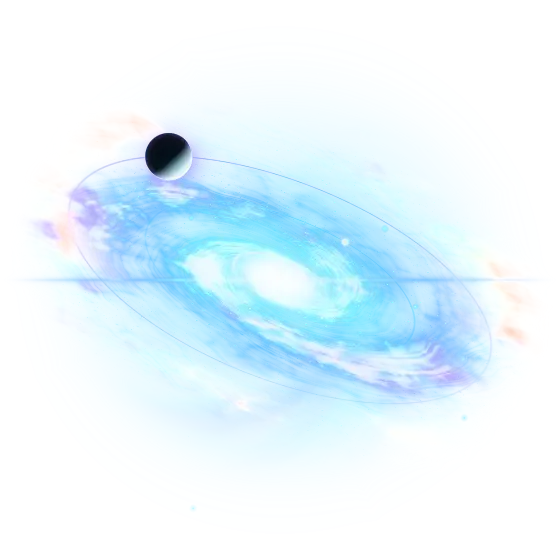
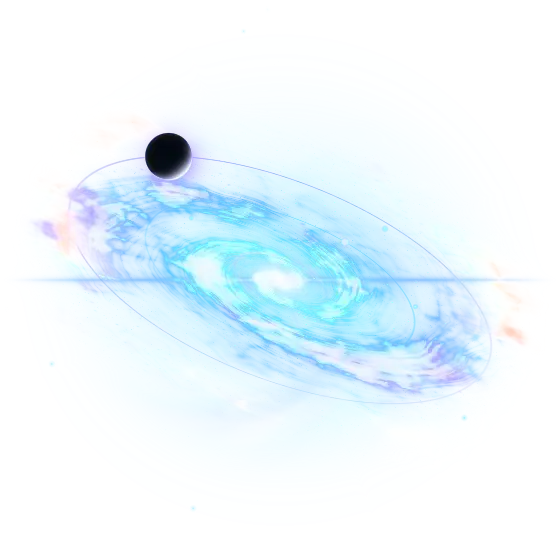
Session AM-2 (critique round 4, the star and the stage): a resolved core in dark space, a bezel that clears the words, light on the floor
Two independent critics scored the star 7 and 6.5, the stage 7 and 6: "a blown white core with no hot point, smeared
arms, a lilac haze instead of black space, a matte grey ball for a planet"; "the state ring runs through SPEAK NOW,
WORKING ON IT, ANSWERING"; "the standby bezel is a hairline"; "panels all sit on one plane".
- The shader: the surrounding nebula is thinner (space is dark), the arms have contrast between their lit crests and
  the dark between them, the core is a bulge the arms wind into with a hot nucleus and a pinpoint, four thin
  diffraction spikes, more stars streaming toward the viewer, and the planet is a dark globe with a thin bright
  crescent and a lit limb. The listening rim stays inside the canvas. Portability rules unchanged (the unit test reads
  the source); the five still pictures are drawn again.
- The bezel hugs the disc (0.9 of the star's box; it was 1.06), every state mark stays inside it, the standby bezel is
  a lit line with larger ticks, and the star's slot in the stack is 0.46 of its size (it was 0.42): the name above and
  the state's words below clear the ring in every state.
- The four pillar arcs are sized by the star (a reticle over the galaxy's heart; they were ~290 px inside a 940 px
  star).
- Depth: the haze behind the star steps back; pools of light lie on the floor under the wings and under the star; each
  panel casts its own light on the floor under it. All static (B2).
[…]

Changed region(s): [[0.1518, 0.2429, 0.8196, 0.7286]]

diff --git a/apps/web/components/nova/stage/command-centre.css b/apps/web/components/nova/stage/command-centre.css
@@ -9,7 +9,7 @@
    window's edges so the widgets' own glow reads against them. */
 .cc-nebula { position: absolute; inset: -4%; pointer-events: none;
   background:
-    radial-gradient(30% 36% at 50% 44%, color-mix(in oklab, var(--nova-a, #9273ff) 15%, transparent), transparent 72%),
+    radial-gradient(24% 30% at 50% 44%, color-mix(in oklab, var(--nova-a, #9273ff) 7%, transparent), transparent 70%),
     radial-gradient(26% 30% at 28% 26%, color-mix(in oklab, var(--nova-c, #f06dff) 8%, transparent), transparent 70%),
     radial-gradient(30% 26% at 76% 68%, color-mix(in oklab, var(--nova-c, #f06dff) 8%, transparent), transparent 72%),
     radial-gradient(22% 26% at 80% 20%, color-mix(in oklab, var(--nova-b, #63e7ff) 6%, transparent), transparent 70%),
@@ -17,7 +17,8 @@
     radial-gradient(100% 84% at 50% 46%, transparent 24%, #010208e6 78%, #010208 100%); }
 /* Round 1 of the critique: the sky read as mid-lavender, and neon cannot bloom on a mid-tone. The night is near black
    now: AK's diagonal haze steps back under the Holo look, and the colour stays close to the star. */
-.nova-frame[data-look=holo]:not([data-phone]) > .nova-sky { opacity: .5; }
+/* Round 7 (both critics: "a lilac haze instead of black space"): the haze steps back again; the star's own light is the colour. */
+.nova-frame[data-look=holo]:not([data-phone]) > .nova-sky { opacity: .3; }
 /* The star's thin blue light streak, carried across the whole stage (owner screenshot 4): a line through the star's
    centre, inside its button, so it stays at the star's height. The star draws the bright middle itself; this line takes
    over where the star's own canvas fades and runs out toward both edges. */
@@ -27,14 +28,18 @@
 /* G4: the star's bezel — a ring of fine ticks in the galaxy's own plane (the disc's tilt and roll), just outside its
    arms, so it frames the star without crossing NOVA's name above it or its words below. Static. (AK's three orbit
    rings were centred on the words' stack, so they sat off the star; they give way while the star draws.) */
-.nova-orb-button > .cc-bezel { position: absolute; inset: auto; left: 50%; top: 50%; width: calc(var(--star-size, 440px) * 1.06); height: calc(var(--star-size, 440px) * 1.06); margin: calc(var(--star-size, 440px) * -.53) 0 0 calc(var(--star-size, 440px) * -.53); z-index: 0; pointer-events: none; opacity: .85; }
+/* Round 7 (both critics: the bezel and the state marks ran through "SPEAK NOW", "WORKING ON IT", "ANSWERING" and NOVA's
+   name): the bezel hugs the disc (0.9 of the star's box; it was 1.06), every state mark stays inside it, and the star's
+   slot in the stack is taller (nova-dashboard.tsx: 0.46 of the star's size), so the words clear the ring. */
+.nova-orb-button > .cc-bezel { position: absolute; inset: auto; left: 50%; top: 50%; width: calc(var(--star-size, 440px) * .9); height: calc(var(--star-size, 440px) * .9); margin: calc(var(--star-size, 440px) * -.45) 0 0 calc(var(--star-size, 440px) * -.45); z-index: 0; pointer-events: none; opacity: .95; }
 /* Beside widgets the bezel is drawn inside the star's column (the star's haze may lie behind the wings' glass; its bezel may not be cut by them). */
 .nova-frame[data-stage=set] .nova-orb-button > .cc-bezel { width: calc(var(--star-size, 440px) * .86); height: calc(var(--star-size, 440px) * .86); margin: calc(var(--star-size, 440px) * -.43) 0 0 calc(var(--star-size, 440px) * -.43); }
 .cc-bezel > svg { display: block; width: 100%; height: 100%; overflow: visible; fill: none; }
-.cc-bezel-line { stroke: color-mix(in oklab, var(--nova-b, #63e7ff) 60%, transparent); stroke-width: .3; }
-.cc-bezel-ticks { stroke: color-mix(in oklab, var(--nova-b, #63e7ff) 75%, transparent); stroke-width: 1.8; }
-.cc-bezel-marks { stroke: color-mix(in oklab, var(--nova-b, #63e7ff) 80%, #fff); stroke-width: 3.6; }
-.cc-bezel-arc { stroke: color-mix(in oklab, var(--nova-a, #9273ff) 80%, #fff); stroke-width: .8; }
+.cc-bezel-line { stroke: color-mix(in oklab, var(--nova-b, #63e7ff) 78%, transparent); stroke-width: .55; }
+.cc-bezel-glow { stroke: color-mix(in oklab, var(--nova-b, #63e7ff) 22%, transparent); stroke-width: 2.6; } /* a soft second line: the standby bezel reads as lit, not as a hairline */
+.cc-bezel-ticks { stroke: color-mix(in oklab, var(--nova-b, #63e7ff) 80%, transparent); stroke-width: 2.4; }
+.cc-bezel-marks { stroke: color-mix(in oklab, var(--nova-b, #63e7ff) 80%, #fff); stroke-width: 5; }
+.cc-bezel-arc { stroke: color-mix(in oklab, var(--nova-a, #9273ff) 80%, #fff); stroke-width: 1.3; }
 /* N3b: the state's own mark on the bezel (static drawings; only their opacity changes, once per change of state). */
 .cc-state { opacity: 0; transition: opacity .35s ease-out; }
 .cc-bezel[data-state=listening] .cc-state-listening, .cc-bezel[data-state=thinking] .cc-state-thinking, .cc-bezel[data-state=speaking] .cc-state-speaking { opacity: 1; }
@@ -46,10 +51,21 @@
 .cc-state-speaking { stroke: #86f0d6; }
 @media (prefers-reduced-motion: reduce) { .cc-state { transition: none; } }
 :root[data-app-motion=off] .cc-state { transition: none; }
+/* Round 7 ("the centre telemetry is four hairline bars: make it pillar arcs around the star"): the four pillar rings are a
+   reticle over the galaxy's heart, sized by the star (they were sized by the small orb's box: ~290 px inside a 940 px star). */
+.nova-frame:not([data-phone]) .nova-orb-button[data-star] { --core-size: calc(var(--star-size, 440px) * .47); }
 .nova-stage[data-star] > .nova-rings { display: none; }
 /* A phone's star is small and already wears the four pillar rings: no bezel there. */
 .nova-frame[data-phone] .nova-orb-button > .cc-bezel { display: none; }
 /* A glow along the horizon, where the floor's grid ends (the line itself is the far edge of the grid plane, holo.css). */
+/* Round 7 ("panels all sit on one plane"; the owner's first screenshot: glass floating over a lit floor): pools of light on
+   the floor under the two wings and under the star, as if the panels and the star shone down on the grid. Static. */
+.cc-pool { position: absolute; bottom: 2%; height: 20%; pointer-events: none; }
+.cc-pool[data-at=left] { left: 2%; width: 34%; background: radial-gradient(50% 50% at 50% 60%, color-mix(in oklab, var(--nova-b, #63e7ff) 16%, transparent), transparent 72%); }
+.cc-pool[data-at=right] { right: 2%; width: 34%; background: radial-gradient(50% 50% at 50% 60%, color-mix(in oklab, var(--nova-c, #f06dff) 14%, transparent), transparent 72%); }
+.cc-pool[data-at=star] { left: 30%; width: 40%; bottom: 6%; height: 16%; background: radial-gradient(50% 50% at 50% 50%, color-mix(in oklab, var(--nova-a, #9273ff) 26%, transparent), transparent 70%); }
+.nova-frame[data-phone] .cc-pool, .nova-frame[data-look=classic] .cc-pool, .nova-frame[data-stage=calm] .cc-pool:not([data-at=star]) { display: none; }
+@media (forced-colors: active) { .cc-pool { display: none; } }
 .cc-horizon { position: absolute; left: 0; right: 0; bottom: 14%; height: 22%; pointer-events: none;
   background: radial-gradient(60% 50% at 50% 50%, color-mix(in oklab, var(--nova-a, #9273ff) 22%, transparent), transparent 70%); }
 .nova-frame[data-phone] :is(.cc-nebula, .cc-streak, .cc-horizon), .nova-frame[data-look=classic] .cc-streak { display: none; }

diff --git a/apps/web/lib/nova/core/star-shader.ts b/apps/web/lib/nova/core/star-shader.ts
@@ -48,7 +48,7 @@ void main(){
   vec2 np = vec2(cos(nw), sin(nw)) * rr;
   float cloud = fbm(np*3.2 + vec2(3.7, uSpin*.05)), cloud2 = fbm(np*6.5 - vec2(1.3, 8.2));
   float neb = up(.4,.84, cloud) * dn(.08,.40, rr) * (.4+.8*cloud2);
-  col += mix(mix(uA, uC, up(.3,.8,cloud2)), peach, up(.5,.9,cloud)*.55) * neb * .6;
+  col += mix(mix(uA, uC, up(.3,.8,cloud2)), peach, up(.5,.9,cloud)*.7) * neb * .34;
   // ---- the disc: tilted, two log-spiral arms with finer spurs, the inner disc turns faster ----
   vec2 q = rot(ROLL) * uv; q.y /= TILT;
   float r = length(q), a = atan(q.y, q.x + 1e-5), lr = log(r+.02);
@@ -60,7 +60,7 @@ void main(){
   vec2 g = rot(uSpin*(.35+.14/(r+.2))) * q;
   float gas = fbm(g*5.5 + vec2(0., uSpin*.2)), gas2 = fbm(g*12. - vec2(uSpin*.15, 3.1));
   float disc = dn(.05,.64, r);
-  float dens = disc * (.10 + 1.1*arms + .26*spur) * (.14 + 1.6*gas*gas) * (.5+1.05*gas2);
+  float dens = disc * (.15 + 1.1*arms + .3*spur) * (.14 + 1.6*gas*gas) * (.5+1.05*gas2);
   float lane = up(.42,.78, fbm(g*8.+vec2(4.,1.)+phase*.12));
   dens *= mix(1., .2, lane*up(.07,.3,r));
   dens *= .78 + .5*noise(g*64. + vec2(uSpin*.3, 1.7));
@@ -80,14 +80,15 @@ void main(){
     float dust = edge * up(.25,.7, fbm(g*15. + vec2(9., 2.) + phase*.2)) * up(.08,.2,r) * dn(.3,.6,r);
     dens *= 1. - .78*dust;
   }
-  vec3 inner = mix(vec3(1.,.97,1.), mix(uA, vec3(1.), .3), up(.0,.12,r));
+  vec3 inner = mix(vec3(1.,.97,1.), mix(uA, vec3(1.), .16), up(.0,.09,r));
   vec3 mid = mix(inner, uC, up(.09,.28,r));
   vec3 outer = mix(mid, mix(uA, peach, .5 + .5*up(.35,.75,gas)), up(.24,.5,r));
   vec3 gasCol = mix(outer, uB, up(.5,.85,gas2)*arms*.8);
   gasCol = mix(gasCol, uA*.55, lane*.5);
-  col += gasCol * dens * 3.3;
+  dens *= .46 + 1.15*up(.06, .7, dens);
+  col += gasCol * dens * 2.6;
   // the arms' crests run hot: a white-violet light where the gas is densest
-  col += mix(vec3(1.), uC, .35) * up(.5, 1.3, dens) * arms * disc * .5 * fine;
+  col += mix(vec3(1.), uC, .55) * up(.55, 1.5, dens) * arms * disc * .26 * fine;
   // bright knots along the arms (star-forming regions)
   vec2 kg = g*30.; vec2 ki = floor(kg); float kh = hash(ki+3.1);
   float kd = length(fract(kg)-.5 - (vec2(hash(ki),hash(ki+9.))-.5)*.5);
@@ -95,16 +96,16 @@ void main(){
   col += mix(mix(uB, uC, step(.87, kh)), vec3(1.), .5) * knot * 1.25;
   // ---- the core: a white heart, a violet bloom, a thin accretion ring ----
   float pulse = 1. + .06*sin(uT*1.1) + .5*uSpeak*uPulse + .12*uThink*sin(uT*5.) + .22*uThink + .08*uListen;
-  float core = exp(-r*r*300./(pulse*pulse)) * 2.6 + exp(-r*16.)*.75*pulse + exp(-r*r*2600.)*1.8;
+  float core = exp(-r*r*560./(pulse*pulse)) * 1.25 + exp(-r*19.)*.34*pulse + exp(-r*r*5200.)*2.6 + exp(-rr*rr*90000.)*3.;
   col += mix(vec3(1.), uA*1.1+.3, up(0.,.18,r)) * core;
   float bulge = exp(-length(uv*vec2(1.,1.3))*7.5);
-  col += (uA*.6 + uC*.34 + .1) * (bulge * .8 + exp(-rr*7.)*.05) * pulse;
+  col += (uA*.6 + uC*.34 + .1) * (bulge * .42 + exp(-rr*7.)*.03) * pulse;
   float ringR = .085*pulse;
   float acc = dn(0.,.006, abs(r-ringR)) * (.55 + .45*cos(a - uSpin*3.)) + dn(0.,.03, abs(r-ringR))*.12;
   col += mix(uB, vec3(1.), .6) * acc * .7;
   // four-point glint
-  vec2 gv = rot(.38)*uv; float glint = exp(-abs(gv.x)*60.)*exp(-abs(gv.y)*8.) + exp(-abs(gv.y)*60.)*exp(-abs(gv.x)*8.);
-  col += vec3(.9,.92,1.) * glint * .3 * pulse;
+  vec2 gv = rot(.38)*uv; float glint = exp(-abs(gv.x)*170.)*exp(-abs(gv.y)*12.) + exp(-abs(gv.y)*170.)*exp(-abs(gv.x)*12.);
+  col += vec3(.92,.94,1.) * glint * .5 * pulse;
   // ---- listening: rings fall inward · speaking: rings travel outward · thinking: a sweep of light turns through the disc ----
   float wIn = .5+.5*sin(r*64. + uT*5.5), wOut = .5+.5*sin(r*44. - uT*7.);
   float ringIn = uListen * dn(.02,.5,r) * sq(sq(wIn)*sq(wIn)) * 1.5 * up(.03,.1,r);
@@ -113,7 +114,7 @@ void main(){
   // Each state also has a look of its own that a single still frame shows: listening is washed in the second colour with a
   // lit rim at the disc's edge; thinking carries two bright arcs that turn inside the disc and a whiter core; speaking is
   // warmed by the third colour.
-  col += uB * uListen * (disc * (.07 + .12*gas) + dn(0.,.010, abs(r-.535)) * .9);
+  col += uB * uListen * (disc * (.07 + .12*gas) + dn(0.,.008, abs(r-.455)) * .7);
   col += mix(uB, vec3(1.), .6) * uThink * dn(0.,.007, abs(r-.31)) * sq(.5+.5*cos(2.*a - uT*2.4)) * 1.3;
   col += uC * uSpeak * disc * (.06 + .10*gas);
   float sw = .5+.5*cos(a + uT*2.6), sw2 = .5+.5*cos(a + uT*2.6 + 3.14159); float sweep = sq(sq(sq(sw))) + sq(sq(sq(sw2)))*.55;
@@ -133,7 +134,7 @@ void main(){
   for(int k=0;k<3;k++){
     float fk = float(k); float z = fract(uT*(.03+.035*uThink) + fk*.333);
     vec2 pp = uv / (z*1.3+.07) * (4.+fk*1.7) + fk*13.7; vec2 pi = floor(pp); float ph = hash(pi+fk*7.3);
-    float sd = length(fract(pp)-.5 - (vec2(hash(pi+1.3),hash(pi+2.7))-.5)*.7); float tw = (dn(0., .05, sd) + dn(0., .014, sd)*1.5) * step(.9, ph);
+    float sd = length(fract(pp)-.5 - (vec2(hash(pi+1.3),hash(pi+2.7))-.5)*.7); float tw = (dn(0., .045, sd) + dn(0., .014, sd)*1.8) * step(.84, ph);
     col += mix(vec3(.8,.88,1.), uA+.4, ph*.5) * tw * up(0.,.3,z) * dn(.75,1.,z) * up(.09,.24,rr);
   }
   // ---- the thin horizontal light streak through the core ----
@@ -164,7 +165,8 @@ void main(){
     float lit = max(0., dot(nrm, L));
     float rim = sq(1.-nz)*sqrt(max(1.-nz, 0.)), facing = max(0., dot(n, -po/max(length(po), 1e-4)));
     // A body in every frame: a dark globe with faint bands, a thin lit limb all the way round, brightest toward the core.
-    vec3 pc = vec3(.012,.016,.045) + uA * .05 * nz * (.6 + .4*noise(vec2(n.y*9., 2.))) + mix(uA, vec3(1.), .7) * lit*sqrt(max(lit, 0.)) * 3.2 + mix(uB, vec3(1.), .35) * rim * (.7 + 3.*facing);
+    float cres = sq(sq(lit)) * lit;
+    vec3 pc = vec3(.006,.008,.026) + uA * .035 * nz * (.6 + .4*noise(vec2(n.y*9., 2.))) + mix(uC, vec3(1.), .78) * (cres * 2.6 + sq(lit)*.35) + mix(uB, vec3(1.), .45) * rim * (.5 + 4.2*facing);
     col = mix(col, pc, solid);
   }
   col += uB * exp(-max(pd-pr, 0.)*70.) * (.16 + .3*max(0., dot(d, -po)/max(pd*length(po), 1e-4))) * (1.-behind) * (1.-body);

diff --git a/apps/web/components/nova/nova-stage.tsx b/apps/web/components/nova/nova-stage.tsx
@@ -71,20 +71,20 @@ export function NovaStage({persona, orb, greeting, typingFrom, counts, showcase,
       <circle className="nova-ring-moon" cx="300" cy="0" r="5"/><circle className="nova-ring-moon nova-ring-moon-2" cx="-150" cy="-260" r="3.5"/>
     </svg>
     <div className="nova-stage-above"><p className="nova-name" aria-hidden="true">{letters}</p></div>
-    <button type="button" className="nova-orb-button" onClick={onTalk} aria-expanded={talkOpen} aria-controls={talkOpen ? "nova-talk" : undefined} aria-describedby="nova-orb-state" data-star={starOn && persona.avatar !== 'zigi' ? '' : undefined} style={starOn && starBox && persona.avatar !== 'zigi' ? {'--star-box': `${starBox}px`, '--star-size': `${starSize ?? Math.round(starBox / 0.42)}px`} as CSSProperties : undefined}>
+    <button type="button" className="nova-orb-button" onClick={onTalk} aria-expanded={talkOpen} aria-controls={talkOpen ? "nova-talk" : undefined} aria-describedby="nova-orb-state" data-star={starOn && persona.avatar !== 'zigi' ? '' : undefined} style={starOn && starBox && persona.avatar !== 'zigi' ? {'--star-box': `${starBox}px`, '--star-size': `${starSize ?? Math.round(starBox / 0.46)}px`} as CSSProperties : undefined}>
       {/* Session AM-2 (G1): the star's light streak, carried across the stage (decoration; components/nova/stage/command-centre.css). */}
       {starOn && persona.avatar !== 'zigi' && <span className="cc-streak" aria-hidden="true"/>}
       {/* Session AM-2 (G4): the star's bezel — a ring of fine ticks in the galaxy's own plane, just outside its arms (static
           decoration; components/nova/stage/command-centre.css). It replaces AK's three orbit rings while the star draws. */}
       {starOn && persona.avatar !== 'zigi' && <span className="cc-bezel" aria-hidden="true" data-state={orb}><svg viewBox="-100 -100 200 200" focusable="false"><g transform="rotate(21.8)">
-        <ellipse rx="97" ry="42.7" className="cc-bezel-line"/><ellipse rx="93" ry="40.9" className="cc-bezel-ticks" pathLength="360" strokeDasharray="0.2 2.8"/><ellipse rx="92.2" ry="40.6" className="cc-bezel-marks" pathLength="360" strokeDasharray="0.45 29.55"/>
+        <ellipse rx="97" ry="42.7" className="cc-bezel-glow"/><ellipse rx="97" ry="42.7" className="cc-bezel-line"/><ellipse rx="93" ry="40.9" className="cc-bezel-ticks" pathLength="360" strokeDasharray="0.2 2.8"/><ellipse rx="92.2" ry="40.6" className="cc-bezel-marks" pathLength="360" strokeDasharray="0.45 29.55"/>
         <ellipse rx="99.5" ry="43.8" className="cc-bezel-arc" pathLength="360" strokeDasharray="36 144"/>
         {/* N3b (the third critique: "the four states read alike in a still"): each state wears its own mark on the bezel,
             all drawn always and shown by opacity alone — listening a lit ring with ticks pointing in, thinking a ring
-            in segments, speaking ticks pointing out with two rings going outward. The words under the star say the same. */}
+            in segments, speaking a ticked rim with two rings inside it. Every mark stays inside the bezel (round 7: they ran through the words). The words under the star say the same. */}
         <g className="cc-state cc-state-listening"><ellipse rx="100.5" ry="44.2" className="cc-state-ring"/><ellipse rx="96.5" ry="42.5" className="cc-state-ticks" pathLength="360" strokeDasharray="0.5 5.5"/><ellipse rx="86" ry="37.8" className="cc-state-faint"/></g>
-        <g className="cc-state cc-state-thinking"><ellipse rx="100.5" ry="44.2" className="cc-state-ring" pathLength="360" strokeDasharray="21 9"/><ellipse rx="105" ry="46.2" className="cc-state-faint" pathLength="360" strokeDasharray="5 25"/></g>
-        <g className="cc-state cc-state-speaking"><ellipse rx="103.5" ry="45.5" className="cc-state-ticks" pathLength="360" strokeDasharray="0.5 3.5"/><ellipse rx="109" ry="48" className="cc-state-ring"/><ellipse rx="115" ry="50.6" className="cc-state-faint"/></g>
+        <g className="cc-state cc-state-thinking"><ellipse rx="100.5" ry="44.2" className="cc-state-ring" pathLength="360" strokeDasharray="21 9"/><ellipse rx="95" ry="41.8" className="cc-state-faint" pathLength="360" strokeDasharray="5 25"/></g>
+        <g className="cc-state cc-state-speaking"><ellipse rx="100" ry="44" className="cc-state-ticks" pathLength="360" strokeDasharray="0.5 3.5"/><ellipse rx="94.5" ry="41.6" className="cc-state-ring"/><ellipse rx="89" ry="39.2" className="cc-state-faint"/></g>
       </g></svg></span>}
       {persona.avatar !== 'zigi' && star}
       {persona.avatar === 'zigi' ? <PersonaMark avatar="zigi" size={170} state={orb}/> : <NovaOrb state={orb} size={220}/>}

diff --git a/apps/web/components/nova/nova-dashboard.tsx b/apps/web/components/nova/nova-dashboard.tsx
@@ -420,13 +420,13 @@ export default function NovaDashboard() {
   const core = holo ? {rings: <LoadBoundary quiet><Suspense fallback={null}><HoloCore part="rings"/></Suspense></LoadBoundary>, readout: <LoadBoundary quiet><Suspense fallback={null}><HoloCore part="readout"/></Suspense></LoadBoundary>} : undefined;
   // The star's box: as large as the window's height allows (its disc is about half as tall as it is wide).
   // On the calm stage it is the hero; beside widgets it steps back so the centre column keeps room for NOVA's words.
-  // Design review AM-D5, AM-D6, AM-D14: the star gives way first. Its disc (0.42 of its box) gets what the stage's height
+  // Design review AM-D5, AM-D6, AM-D14: the star gives way first. Its disc (0.46 of its box since round 7; it was 0.42) gets what the stage's height
   // leaves after the slot kept for NOVA's words under it (nova.css `--ns-slot`, by the same three steps) and the name
   // above it, down to 240 px; a tablet's stage with widgets keeps a 300 px star above its two columns.
   // The star's box in the stack is the calm stage's at every moment (the nebula inside it steps back beside widgets), so
   // NOVA's name and state do not move when the first widget is made.
   // Beside widgets the nebula keeps to the star's own column (about a third of the stage), so it never lies over a widget.
-  const hudRoom = (hudSize?.height ?? height - 300) - 26, hudWide = hudSize?.width ?? width - 300, starSlot = hudRoom <= 520 ? 204 : hudRoom >= 640 ? 252 : 228, starRoom = (hudRoom - starSlot - 124) / 0.42;
+  const hudRoom = (hudSize?.height ?? height - 300) - 26, hudWide = hudSize?.width ?? width - 300, starSlot = hudRoom <= 520 ? 204 : hudRoom >= 640 ? 252 : 228, starRoom = (hudRoom - starSlot - 124) / 0.46;
   // Session AM-2 (ADR-038 "AM-2", G3): the star is larger — the hero of a calm stage (up to 940 px on a wide window) and
   // still large beside widgets, where its light now lies behind the widgets' glass instead of stopping at its column.
   const starCalm = width >= 2200 ? 940 : width >= 1700 ? 760 : width >= 1280 ? 600 : 460, starCapWide = hudWide >= 1100 ? starCalm : hudWide >= 960 ? 360 : 300;
@@ -437,7 +437,7 @@ export default function NovaDashboard() {
   // large as on the calm stage wherever that column holds it.
   const starColumn = hudWide >= 1700 ? (hudWide - 56) * 1.5 / 3.5 : hudWide > 900 ? (hudWide - 40) * 1.1 / 3.1 : hudWide;
   const starCap = stage.shown.length ? Math.min(starCapWide, Math.max(300, Math.round(starColumn * 1.15))) : starCalm;
-  const starSize = phone ? 300 : Math.round(Math.max(240, Math.min(starCap, starRoom))), starBox = phone ? 126 : Math.round(Math.max(240, Math.min(hudWide > 900 ? starCalm : starCap, starRoom)) * 0.42);
+  const starSize = phone ? 300 : Math.round(Math.max(240, Math.min(starCap, starRoom))), starBox = phone ? 126 : Math.round(Math.max(240, Math.min(hudWide > 900 ? starCalm : starCap, starRoom)) * 0.46); // round 7: 0.46 of the star (it was 0.42), so the words under it clear the bezel
   const star = <LoadBoundary quiet><Suspense fallback={null}><StarSystem state={shownOrb} hud={hudMove.state} accent={accent} phone={phone} size={starSize} beam={beam} onReport={onStarReport}/></Suspense></LoadBoundary>;
   const starWhy = starReport && (starReport.why || starReport.always) ? {kind: starReport.why?.kind ?? 'running', text: starReport.why?.text ?? 'The star is running', details: starReport.details, open: starReport.always} : null;
   // Design review AM-D18: from the answer, one keypress to the widget it made (the newest one that is still on the stage).

diff --git a/apps/web/components/nova/holo/holo.css b/apps/web/components/nova/holo/holo.css
@@ -43,7 +43,7 @@
   --holo-grid: linear-gradient(color-mix(in oklab, var(--neon, #9273ff) 6.5%, transparent) 1px, transparent 1px) 0 0 / 24px 24px, linear-gradient(90deg, color-mix(in oklab, var(--neon, #9273ff) 6.5%, transparent) 1px, transparent 1px) 0 0 / 24px 24px;
   --holo-scan: repeating-linear-gradient(0deg, #ffffff06 0 1px, transparent 1px 3px);
   --holo-glass: var(--holo-scan), var(--holo-grid), var(--holo-tint);
-  --holo-bloom: 0 0 9px 1px color-mix(in oklab, var(--neon, #9273ff) 78%, transparent), 0 0 38px 3px color-mix(in oklab, var(--neon, #9273ff) 30%, transparent), 0 0 120px 18px color-mix(in oklab, var(--neon, #9273ff) 10%, transparent), 0 34px 60px -22px #000e;
+  --holo-bloom: 0 0 9px 1px color-mix(in oklab, var(--neon, #9273ff) 78%, transparent), 0 0 38px 3px color-mix(in oklab, var(--neon, #9273ff) 30%, transparent), 0 0 120px 18px color-mix(in oklab, var(--neon, #9273ff) 10%, transparent), 0 34px 60px -22px #000e, 0 64px 50px -46px color-mix(in oklab, var(--neon, #9273ff) 60%, transparent); /* the last layer: the panel's own light on the floor under it (floating glass) */
   background: var(--holo-glass);
   box-shadow: inset 0 0 26px -8px color-mix(in oklab, var(--neon, #9273ff) 50%, transparent), var(--holo-bloom);
   /* B2: no backdrop-filter on the widget plane (the base card's blur is switched off here; tests/nova-stage-am2.spec.ts reads it). */

diff --git a/apps/web/components/nova/holo/holo-parts.css b/apps/web/components/nova/holo/holo-parts.css
@@ -422,7 +422,7 @@
 
 /* ---- The core around the orb, and its readout ---- */
 /* Review M3 (lane L8d): always a circle around the orb (the button can be taller than the orb), 1.44 × the orb's size. */
-.holo-core { position: absolute; left: 50%; top: 50%; width: calc(var(--orb, 160px) * 1.44); height: calc(var(--orb, 160px) * 1.44); translate: -50% -50%; pointer-events: none; z-index: -1; }
+.holo-core { position: absolute; left: 50%; top: 50%; width: var(--core-size, calc(var(--orb, 160px) * 1.44)); height: var(--core-size, calc(var(--orb, 160px) * 1.44)); translate: -50% -50%; pointer-events: none; z-index: -1; }
 .holo-core .holo-stack-box { position: absolute; inset: 0; width: 100%; height: 100%; }
 .holo-core-readout { display: flex; flex-wrap: wrap; justify-content: center; gap: 4px 16px; margin: 4px 0 0; padding: 0; list-style: none; max-width: 100%; }
 .holo-core-readout li { display: inline-flex; align-items: center; gap: 6px; font-size: 14px; color: #d3ddf1; }

diff --git a/apps/web/components/nova/stage/command-centre.tsx b/apps/web/components/nova/stage/command-centre.tsx
@@ -13,7 +13,7 @@ import './command-centre.css';
  *   device, and the arrangement. It stays in place while the stage scrolls under it and never takes a tap.
  */
 export function StageDepth() {
-  return <><span className="cc-nebula"/><span className="cc-horizon"/></>;
+  return <><span className="cc-nebula"/><span className="cc-horizon"/><span className="cc-pool" data-at="left"/><span className="cc-pool" data-at="right"/><span className="cc-pool" data-at="star"/></>;
 }
 const MOTION_WORD: Record<string, string> = {full: 'Full', calm: 'Calm', still: 'Off', paused: 'Paused'};
 const LAYOUT_WORD: Record<string, string> = {orbit: 'Orbit', bento: 'Bento', focus: 'Focus', minimal: 'Minimal'};
